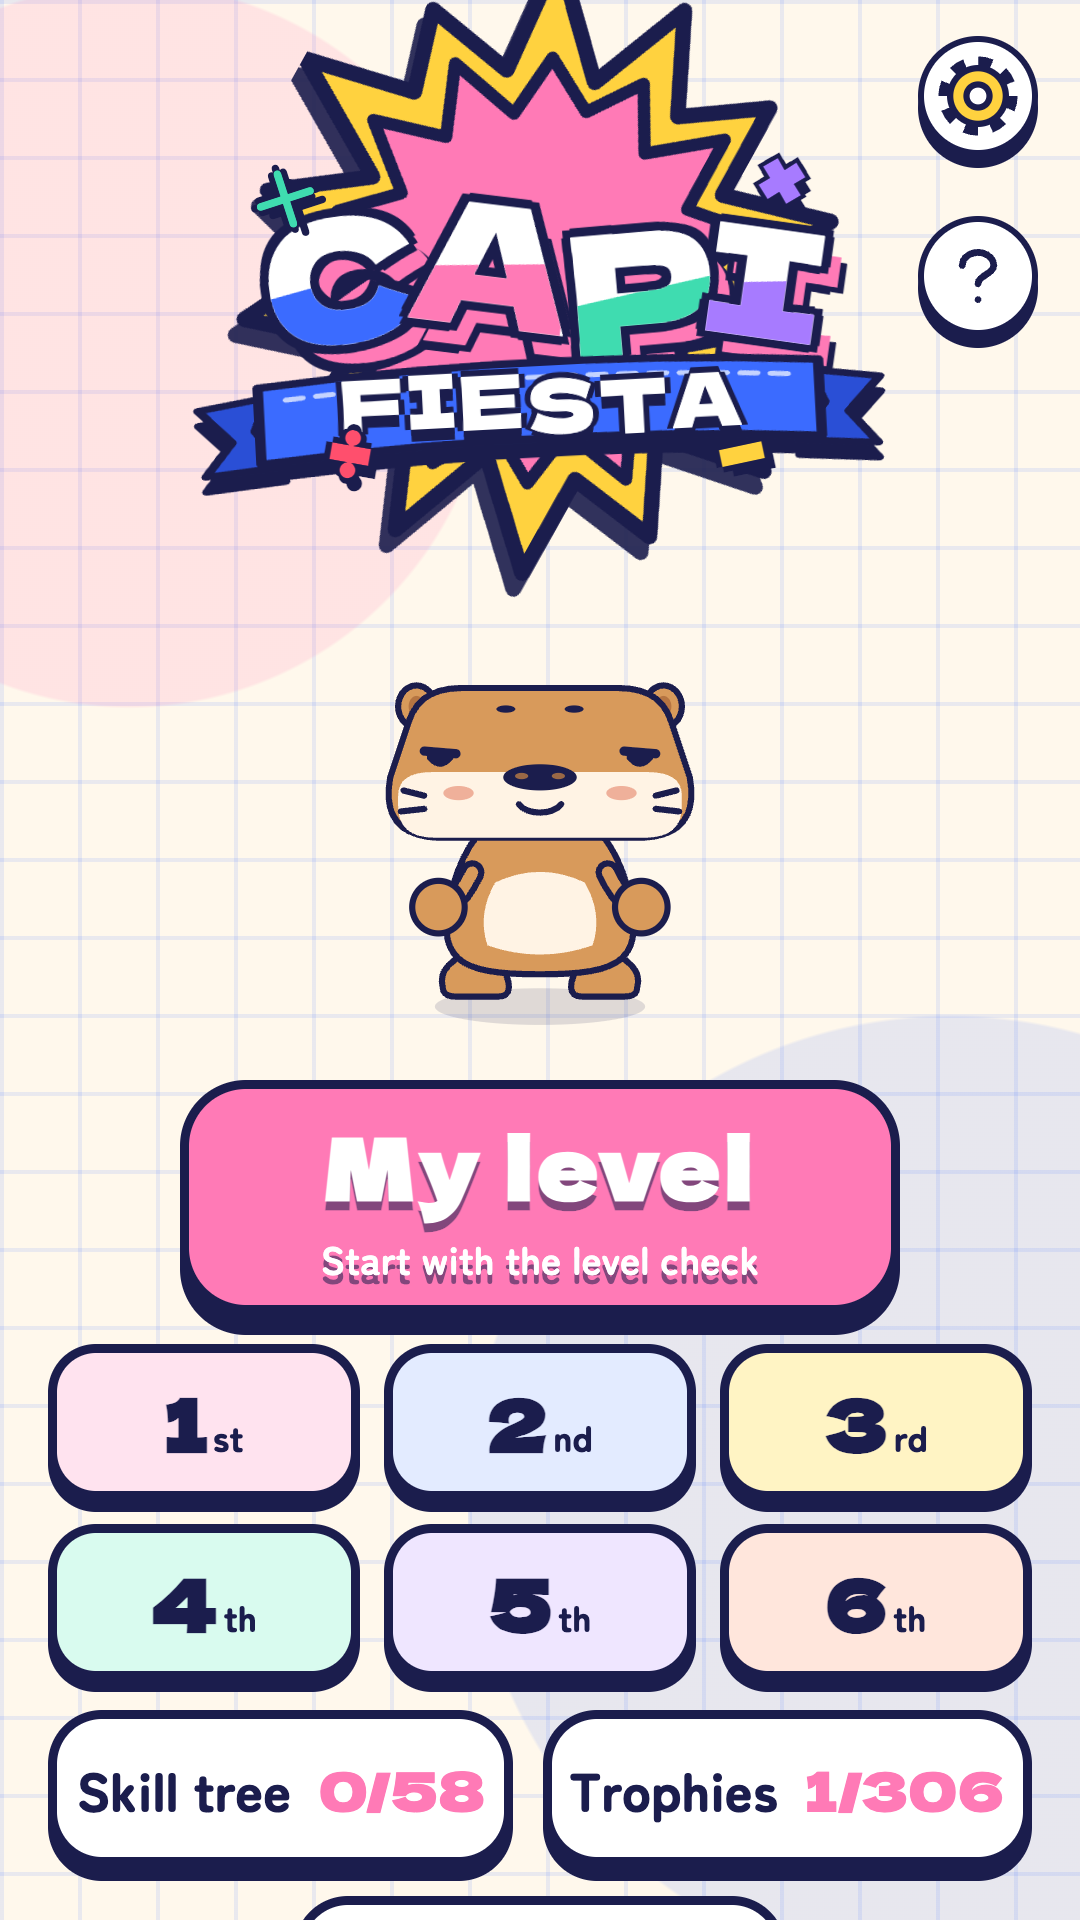
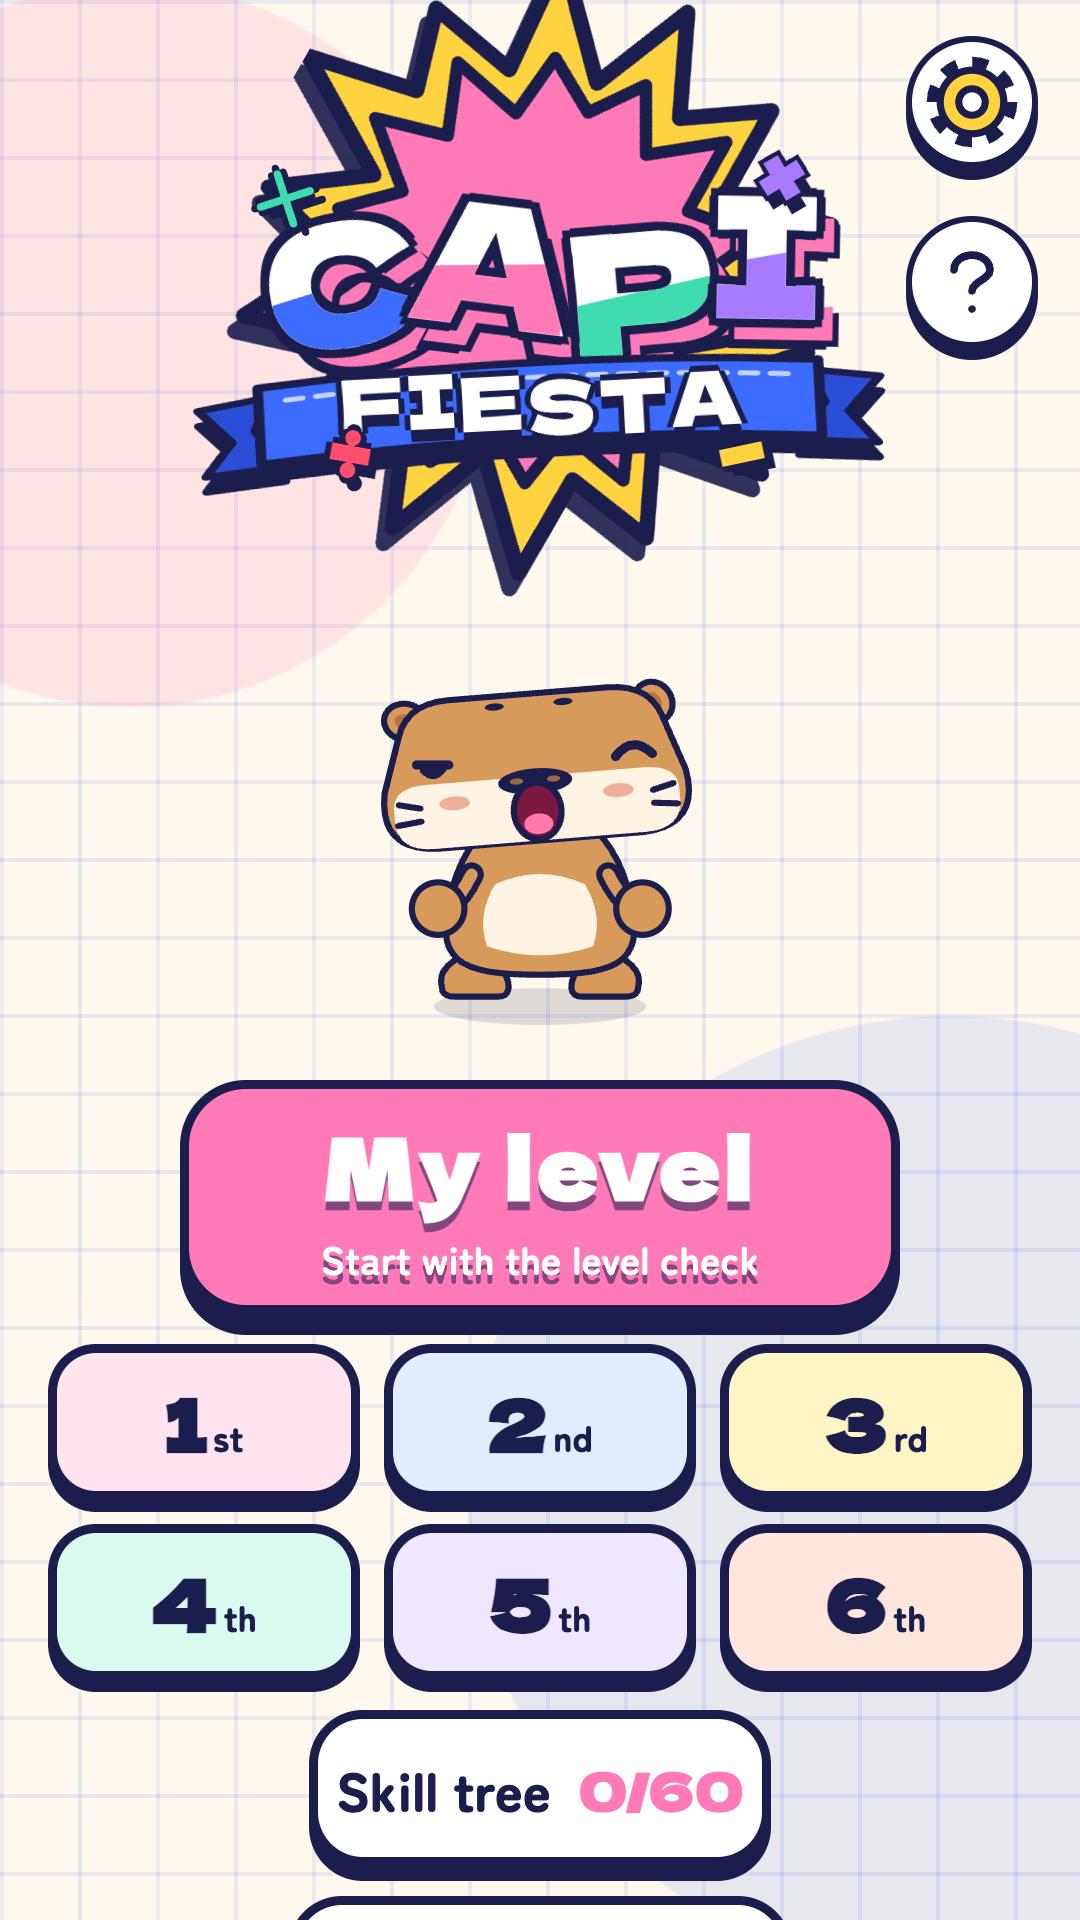
Store listing: texts for 60 skills, kids-only audience; regenerate graphics
The screenshot tool now answers the first-run grade question.

diff --git a/docs/PLAY_STORE.md b/docs/PLAY_STORE.md
@@ -181,7 +181,7 @@ CapiFiesta convierte el cálculo mental en una fiesta. Cada acierto sube la
 música, llena la pantalla de confeti y hace bailar a Capi, la mascota que
 lleva tus números. Equivocarse no resta ni termina la partida: el ritmo sigue.
 
-• 58 habilidades de 1.º a 6.º de primaria: sumas y restas con llevadas,
+• 60 habilidades de 1.º a 6.º de primaria: sumas y restas con llevadas,
 tablas, división con resto, decimales, fracciones, porcentajes y más.
 • «Mi nivel»: una prueba corta coloca al jugador y el árbol de habilidades va
 desbloqueando lo siguiente cuando domina lo anterior.
@@ -194,8 +194,7 @@ colección de efectos que se van desbloqueando.
 en el dispositivo.
 • Funciona sin conexión.
 
-Pensada para niños de 6 a 12 años y para adultos que quieren mantener la
-mente ágil. Contiene anuncios no personalizados aptos para todos los públicos.
+Pensada para niños de primaria, de 6 a 12 años. Contiene anuncios no personalizados aptos para todos los públicos.
 
 ### English (en-US)
 
@@ -209,7 +208,7 @@ CapiFiesta turns mental math into a party. Every right answer turns the music
 up, fills the screen with confetti and makes Capi, the mascot who carries
 your digits, dance. A wrong answer never ends the round: the beat goes on.
 
-• 58 skills from grade 1 to grade 6: carrying and borrowing, times tables,
+• 60 skills from grade 1 to grade 6: carrying and borrowing, times tables,
 division with remainders, decimals, fractions, percentages and more.
 • "My level": a short placement test, then a skill tree that unlocks the next
 step as each one is mastered.
@@ -220,7 +219,7 @@ to unlock.
 • Spanish and English. No accounts, no sign-up: progress stays on the device.
 • Works offline.
 
-Made for kids aged 6–12 and for grown-ups who like to keep their math sharp.
+Made for primary-school kids aged 6–12.
 Contains non-personalized, family-safe ads.
 
 ## 7. Checklist del día de subida
